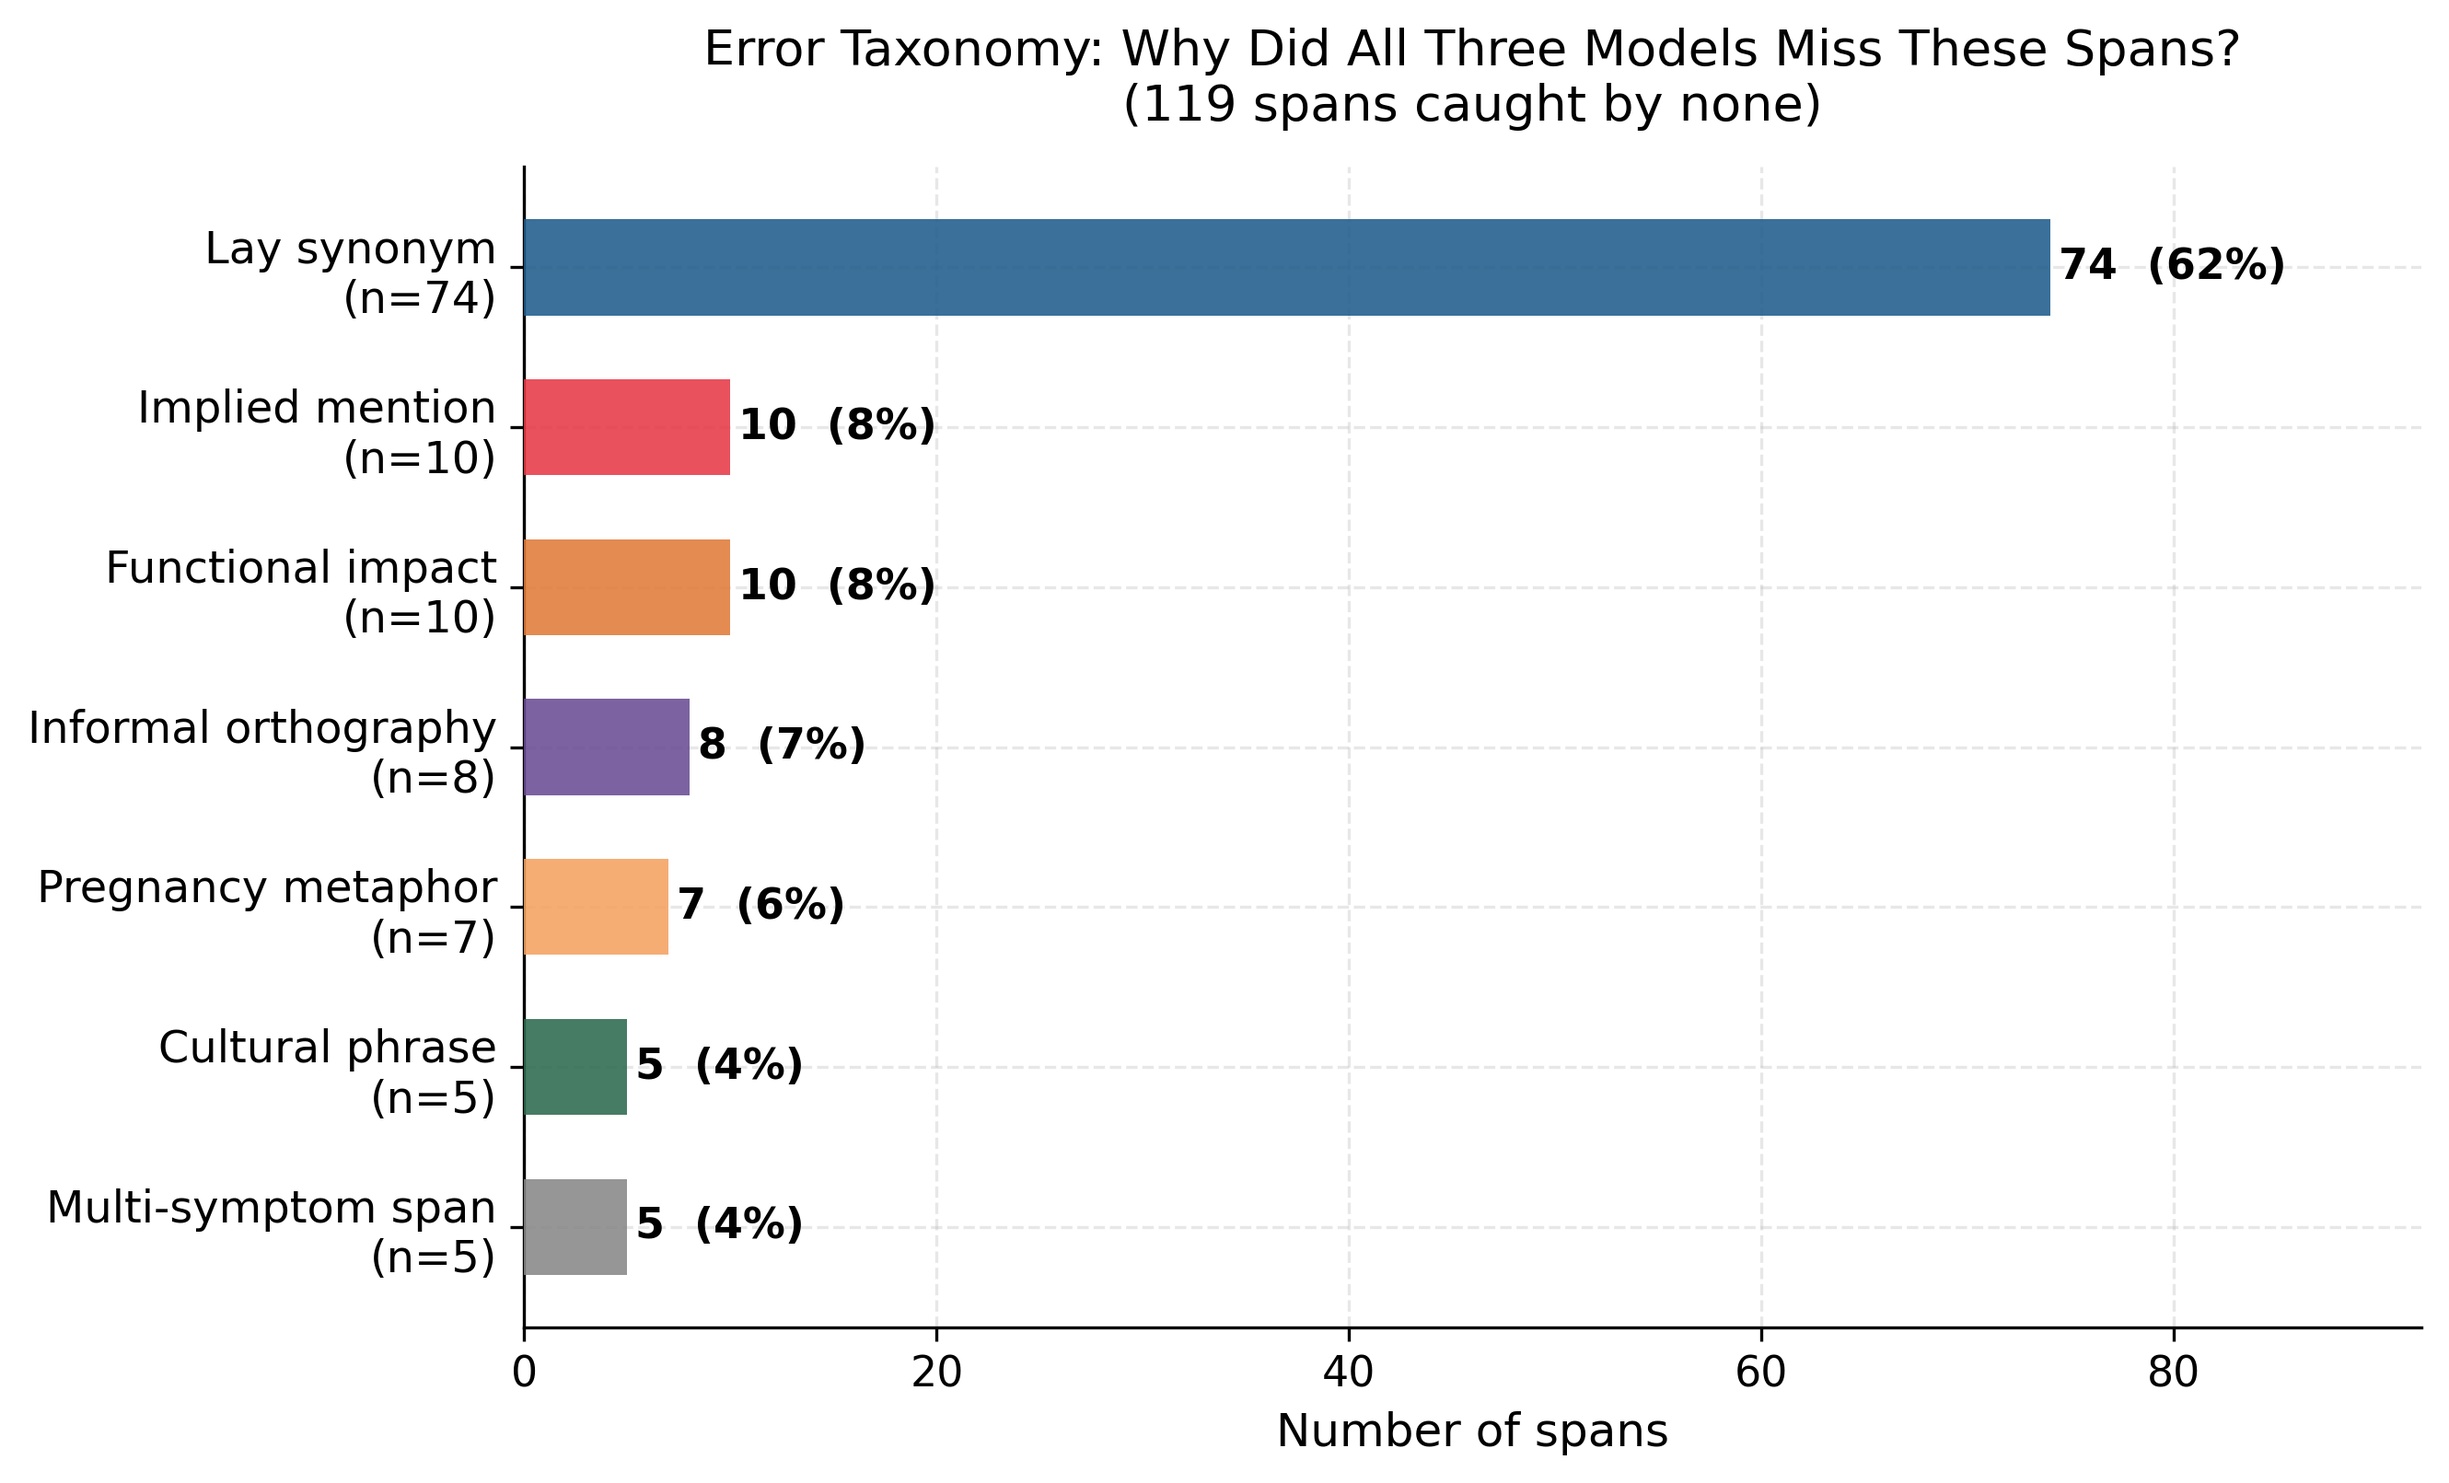
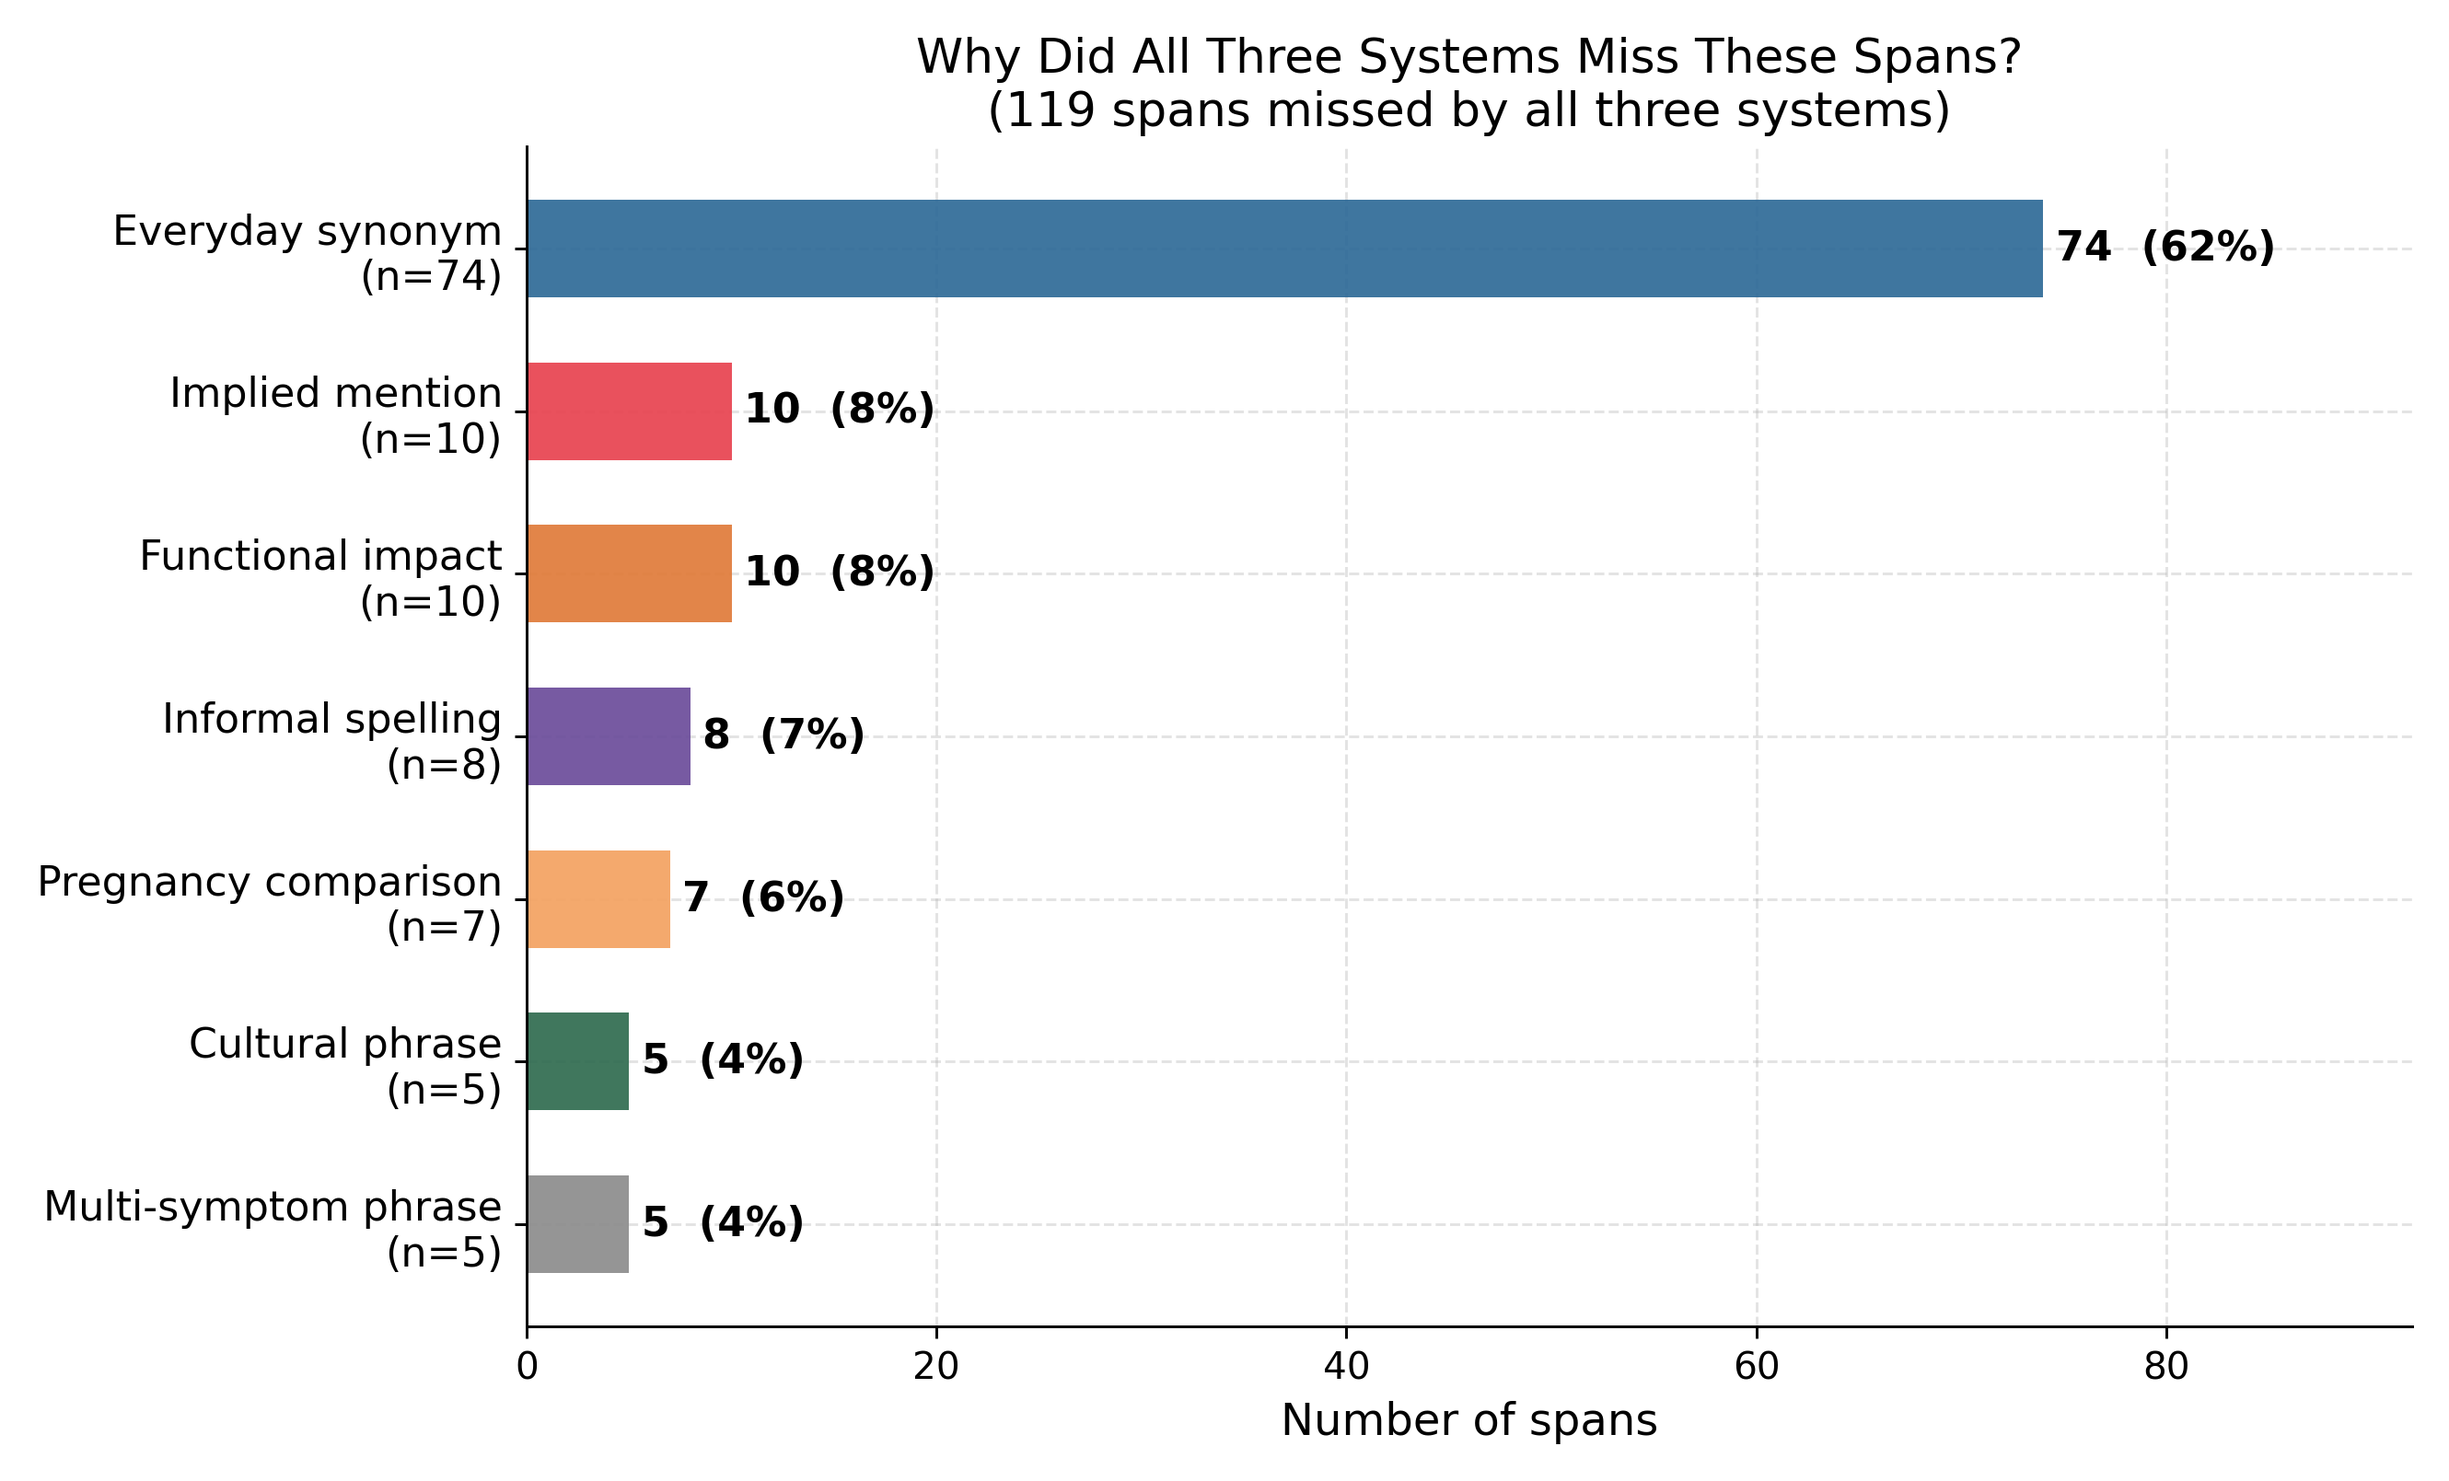
Add plot_error_taxonomy.py and update fig10
Script encodes the seven error-category counts and regenerates
fig10_error_taxonomy.png. No patient text.

diff --git a/scripts/plot_error_taxonomy.py b/scripts/plot_error_taxonomy.py
@@ -1,0 +1,51 @@
+"""
+Regenerate figures/fig10_error_taxonomy.png: categories of the 119 gold spans
+missed by all three NER systems (Section 6.1, Table 5, Figure 3 of the paper).
+
+The counts below are aggregate results from the manual categorisation of the
+missed spans; no patient text is needed to draw the figure.
+"""
+from pathlib import Path
+import matplotlib
+matplotlib.use("Agg")
+import matplotlib.pyplot as plt
+
+OUT = Path(__file__).resolve().parent.parent / "figures" / "fig10_error_taxonomy.png"
+TOTAL = 119
+
+CATEGORIES = [  # (label, count, colour), largest first
+    ("Everyday synonym",     74, "#2E6A97"),
+    ("Implied mention",      10, "#E8424F"),
+    ("Functional impact",    10, "#E07B39"),
+    ("Informal spelling",     8, "#6B4C9A"),
+    ("Pregnancy comparison",  7, "#F4A261"),
+    ("Cultural phrase",       5, "#2F6B4F"),
+    ("Multi-symptom phrase",  5, "#8C8C8C"),
+]
+assert sum(c[1] for c in CATEGORIES) == TOTAL
+
+def main():
+    cats = CATEGORIES[::-1]  # largest bar at the top
+    fig, ax = plt.subplots(figsize=(10, 6.05), dpi=266)
+    y = list(range(len(cats)))
+    ax.barh(y, [c[1] for c in cats], color=[c[2] for c in cats], height=0.6, alpha=0.92)
+    ax.set_yticks(y)
+    ax.set_yticklabels([f"{c[0]}\n(n={c[1]})" for c in cats], fontsize=12)
+    for i, c in enumerate(cats):
+        ax.text(c[1] + 0.6, i, f"{c[1]}  ({round(100 * c[1] / TOTAL)}%)",
+                va="center", fontsize=12, fontweight="bold")
+    ax.set_xlabel("Number of spans", fontsize=13)
+    ax.set_xlim(0, 92)
+    ax.set_title("Why Did All Three Systems Miss These Spans?\n"
+                 f"({TOTAL} spans missed by all three systems)", fontsize=14)
+    ax.grid(axis="both", linestyle="--", alpha=0.35)
+    ax.set_axisbelow(True)
+    for side in ("top", "right"):
+        ax.spines[side].set_visible(False)
+    ax.tick_params(axis="x", labelsize=11)
+    plt.tight_layout()
+    plt.savefig(OUT)
+    print(f"Saved {OUT}")
+
+if __name__ == "__main__":
+    main()
